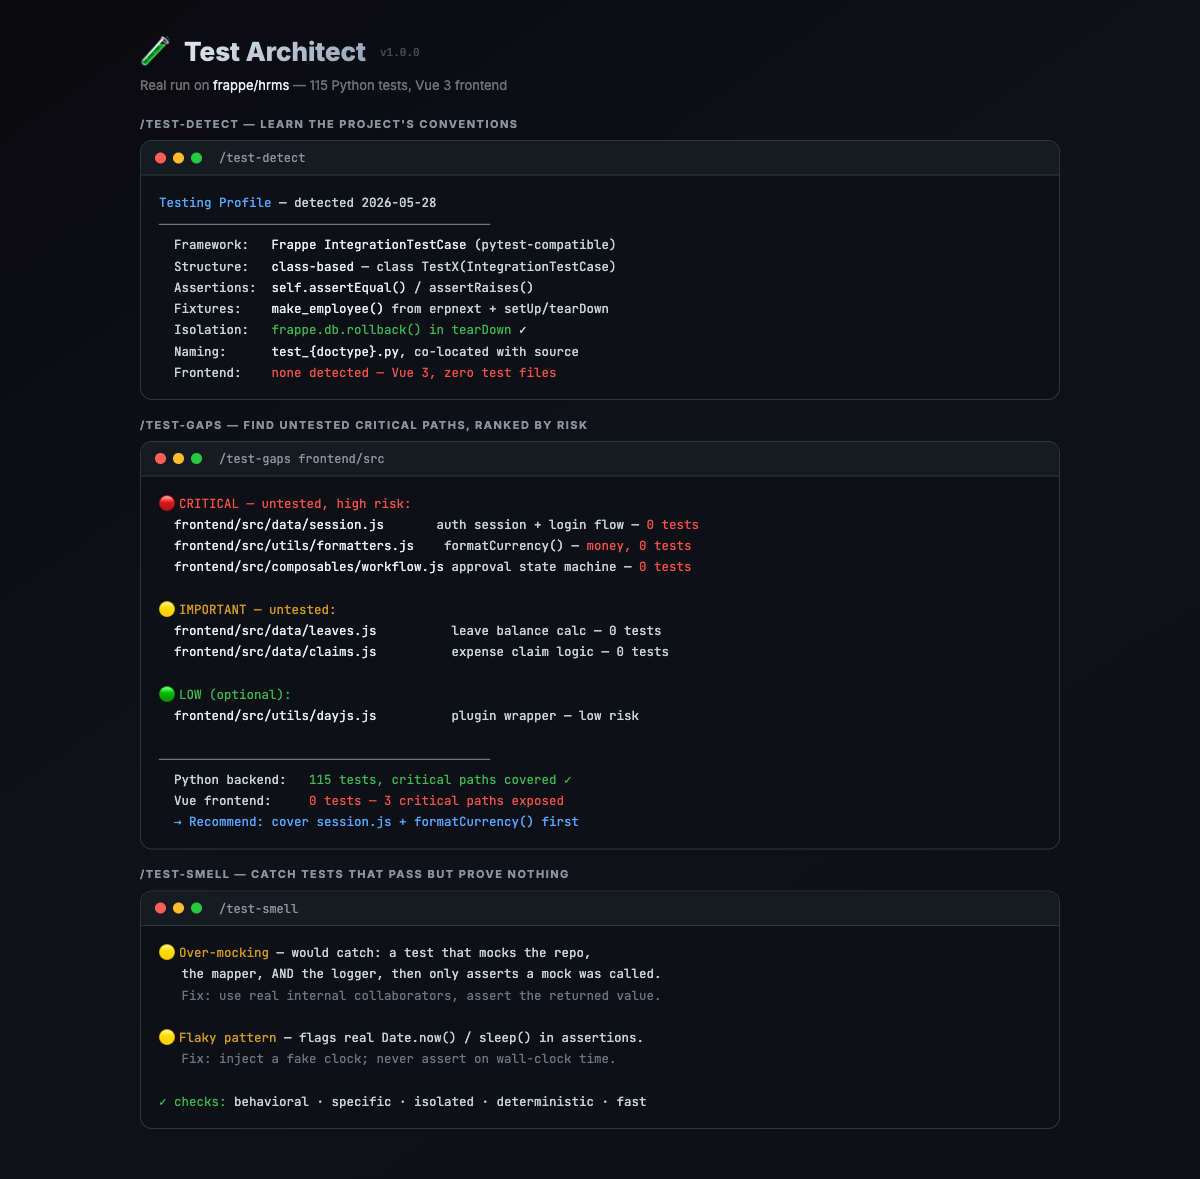
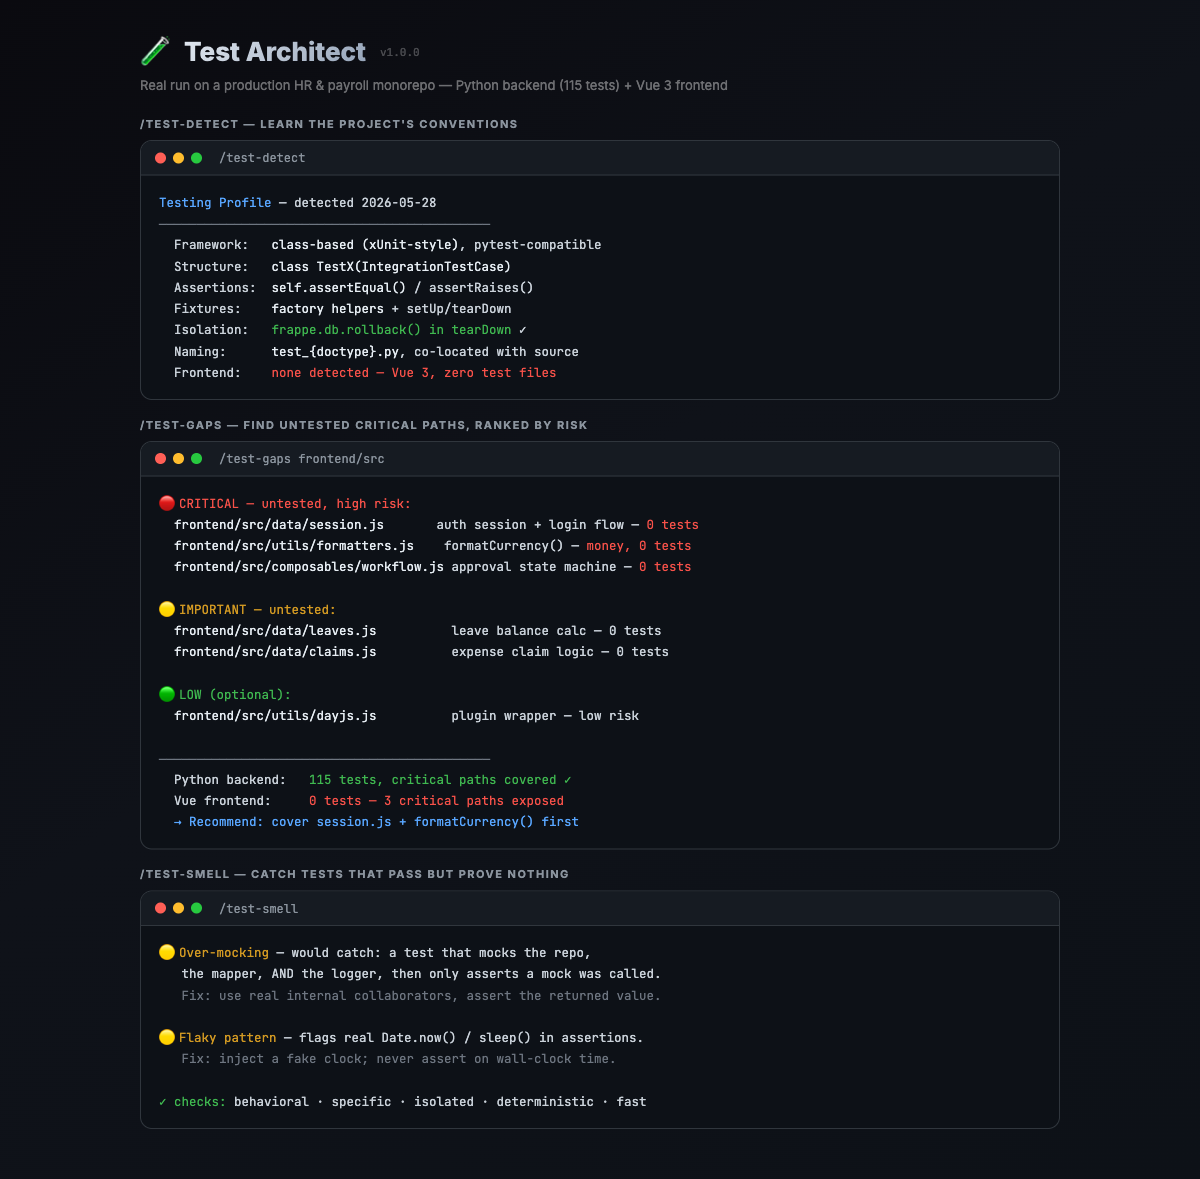
docs: anonymize demo subject (remove specific repo name)

diff --git a/README.md b/README.md
@@ -10,9 +10,9 @@ Most AI-generated tests fail in one of three ways: they use the **wrong framewor
 
 Test Architect fixes all three by reading your project's existing tests first and matching them exactly — then enforcing the discipline that makes a test suite actually catch bugs.
 
-![Test Architect demo on frappe/hrms](docs/demo.png)
+![Test Architect demo](docs/demo.png)
 
-> A real run on [frappe/hrms](https://github.com/frappe/hrms): it learned the Frappe `IntegrationTestCase` conventions from the 115 existing Python tests, then flagged that the entire Vue frontend has **zero tests** — including the auth session flow and `formatCurrency()`.
+> A real run on a production HR & payroll monorepo (Python backend + Vue 3 frontend): it learned the project's test conventions from the 115 existing Python tests, then flagged that the entire frontend has **zero tests** — including the auth session flow and the currency-formatting logic.
 
 ---
 